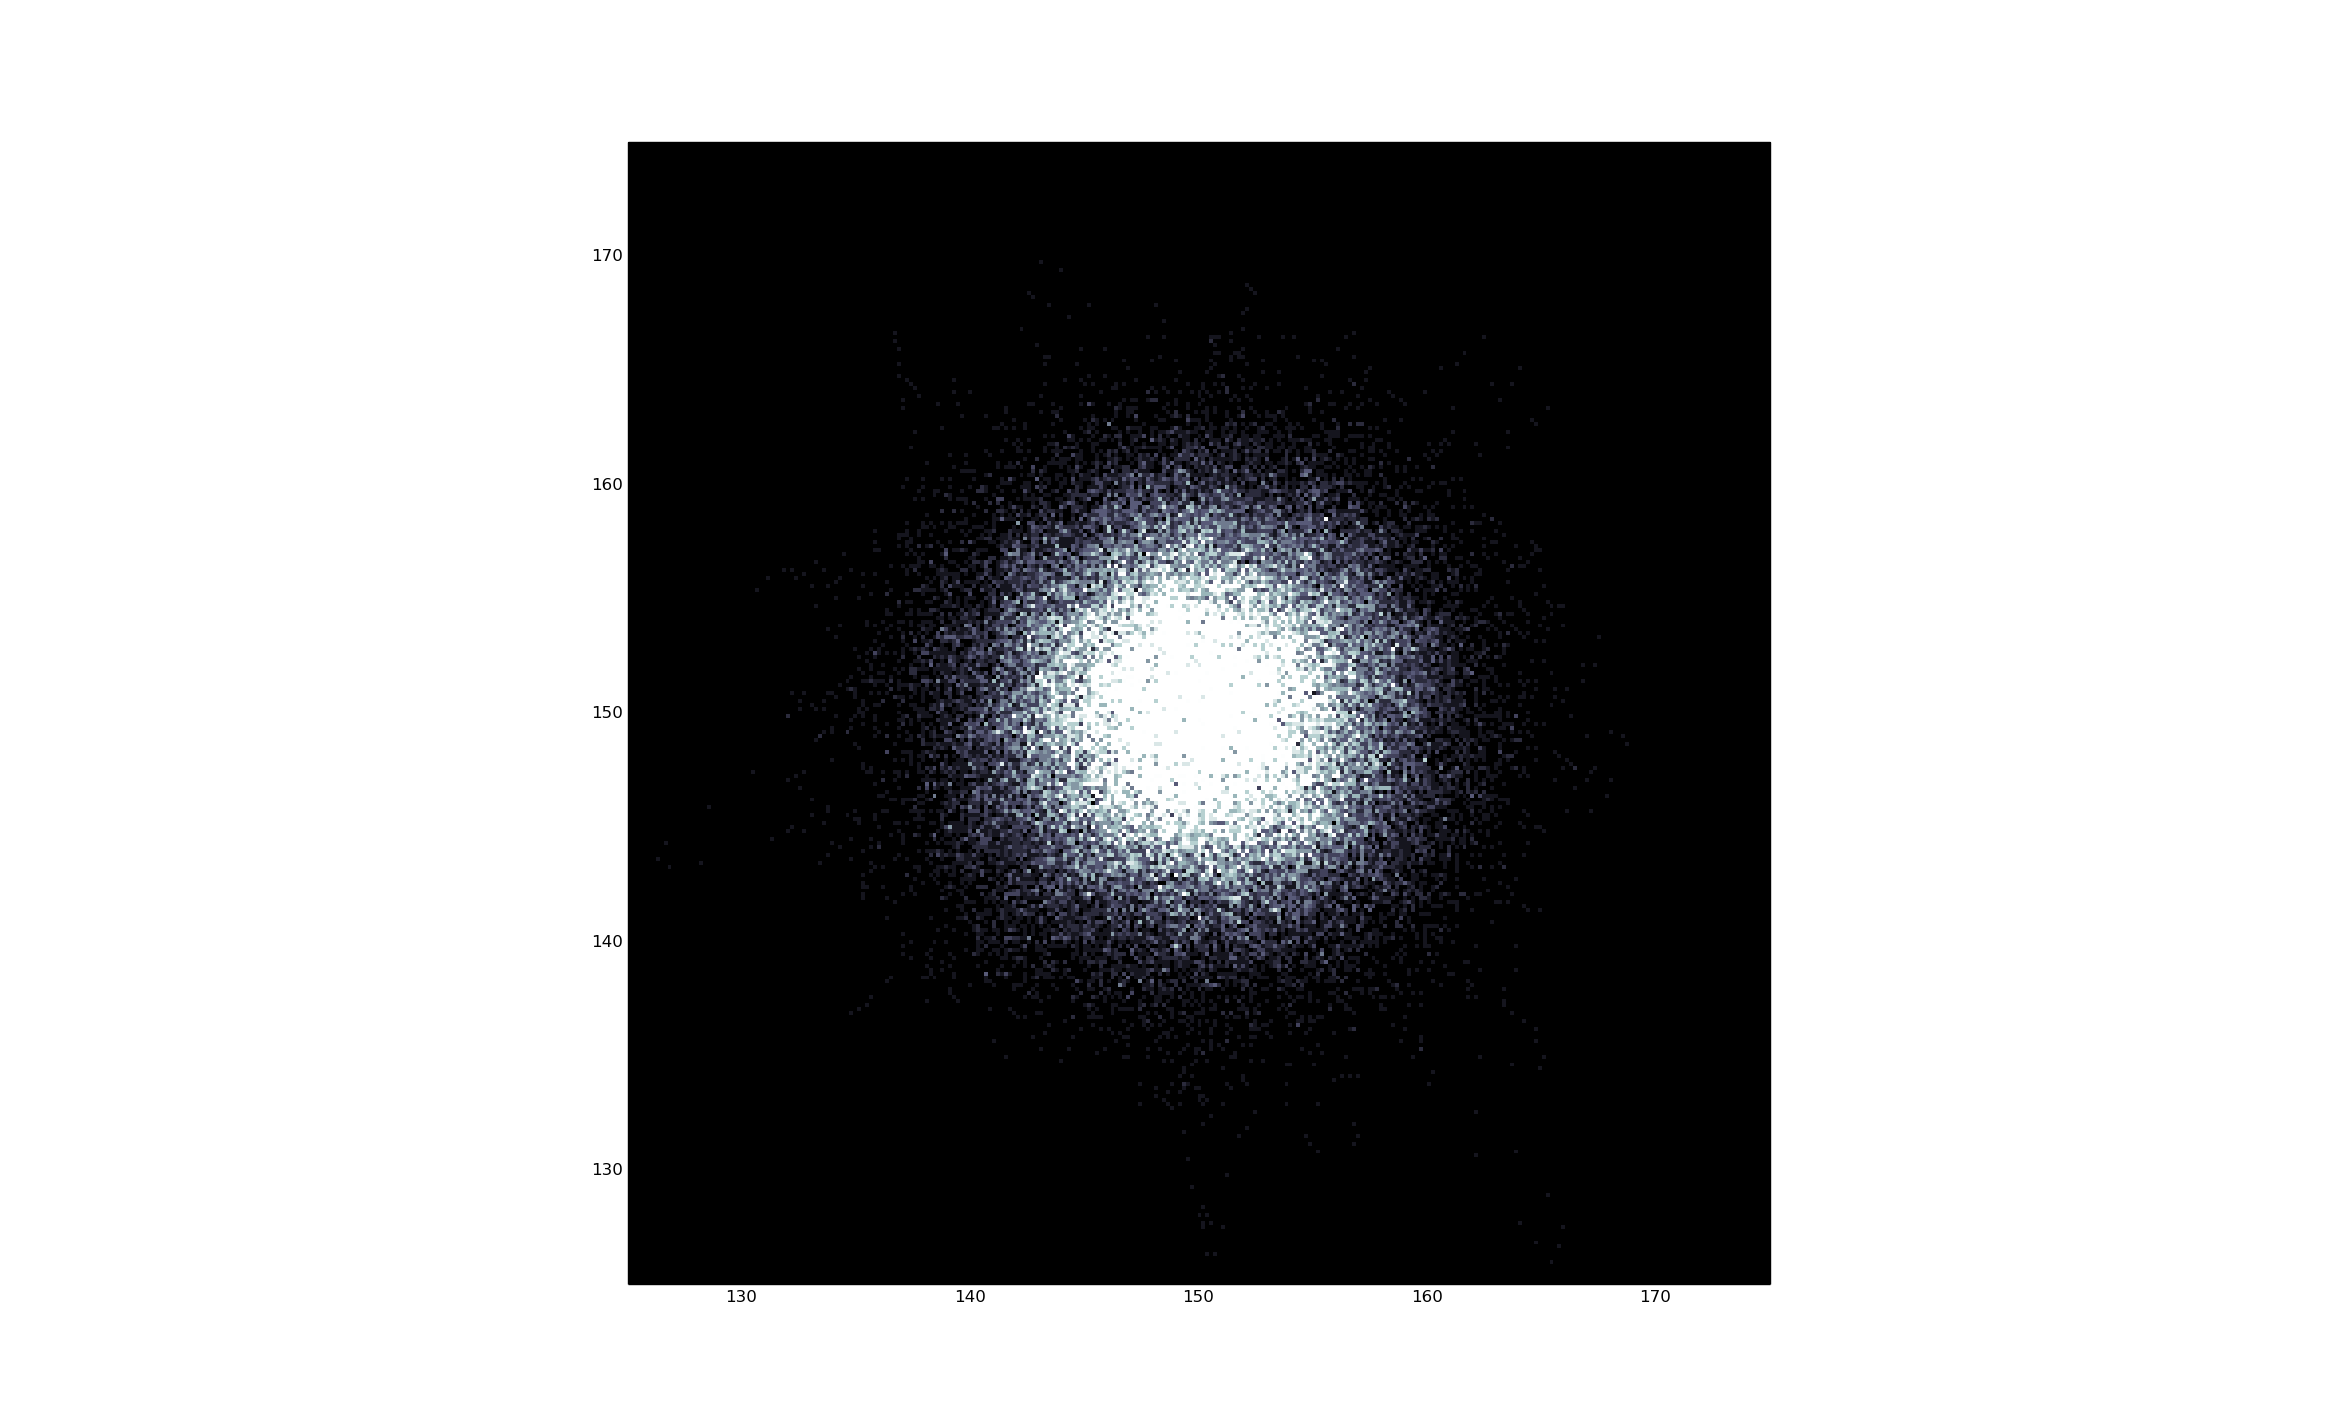
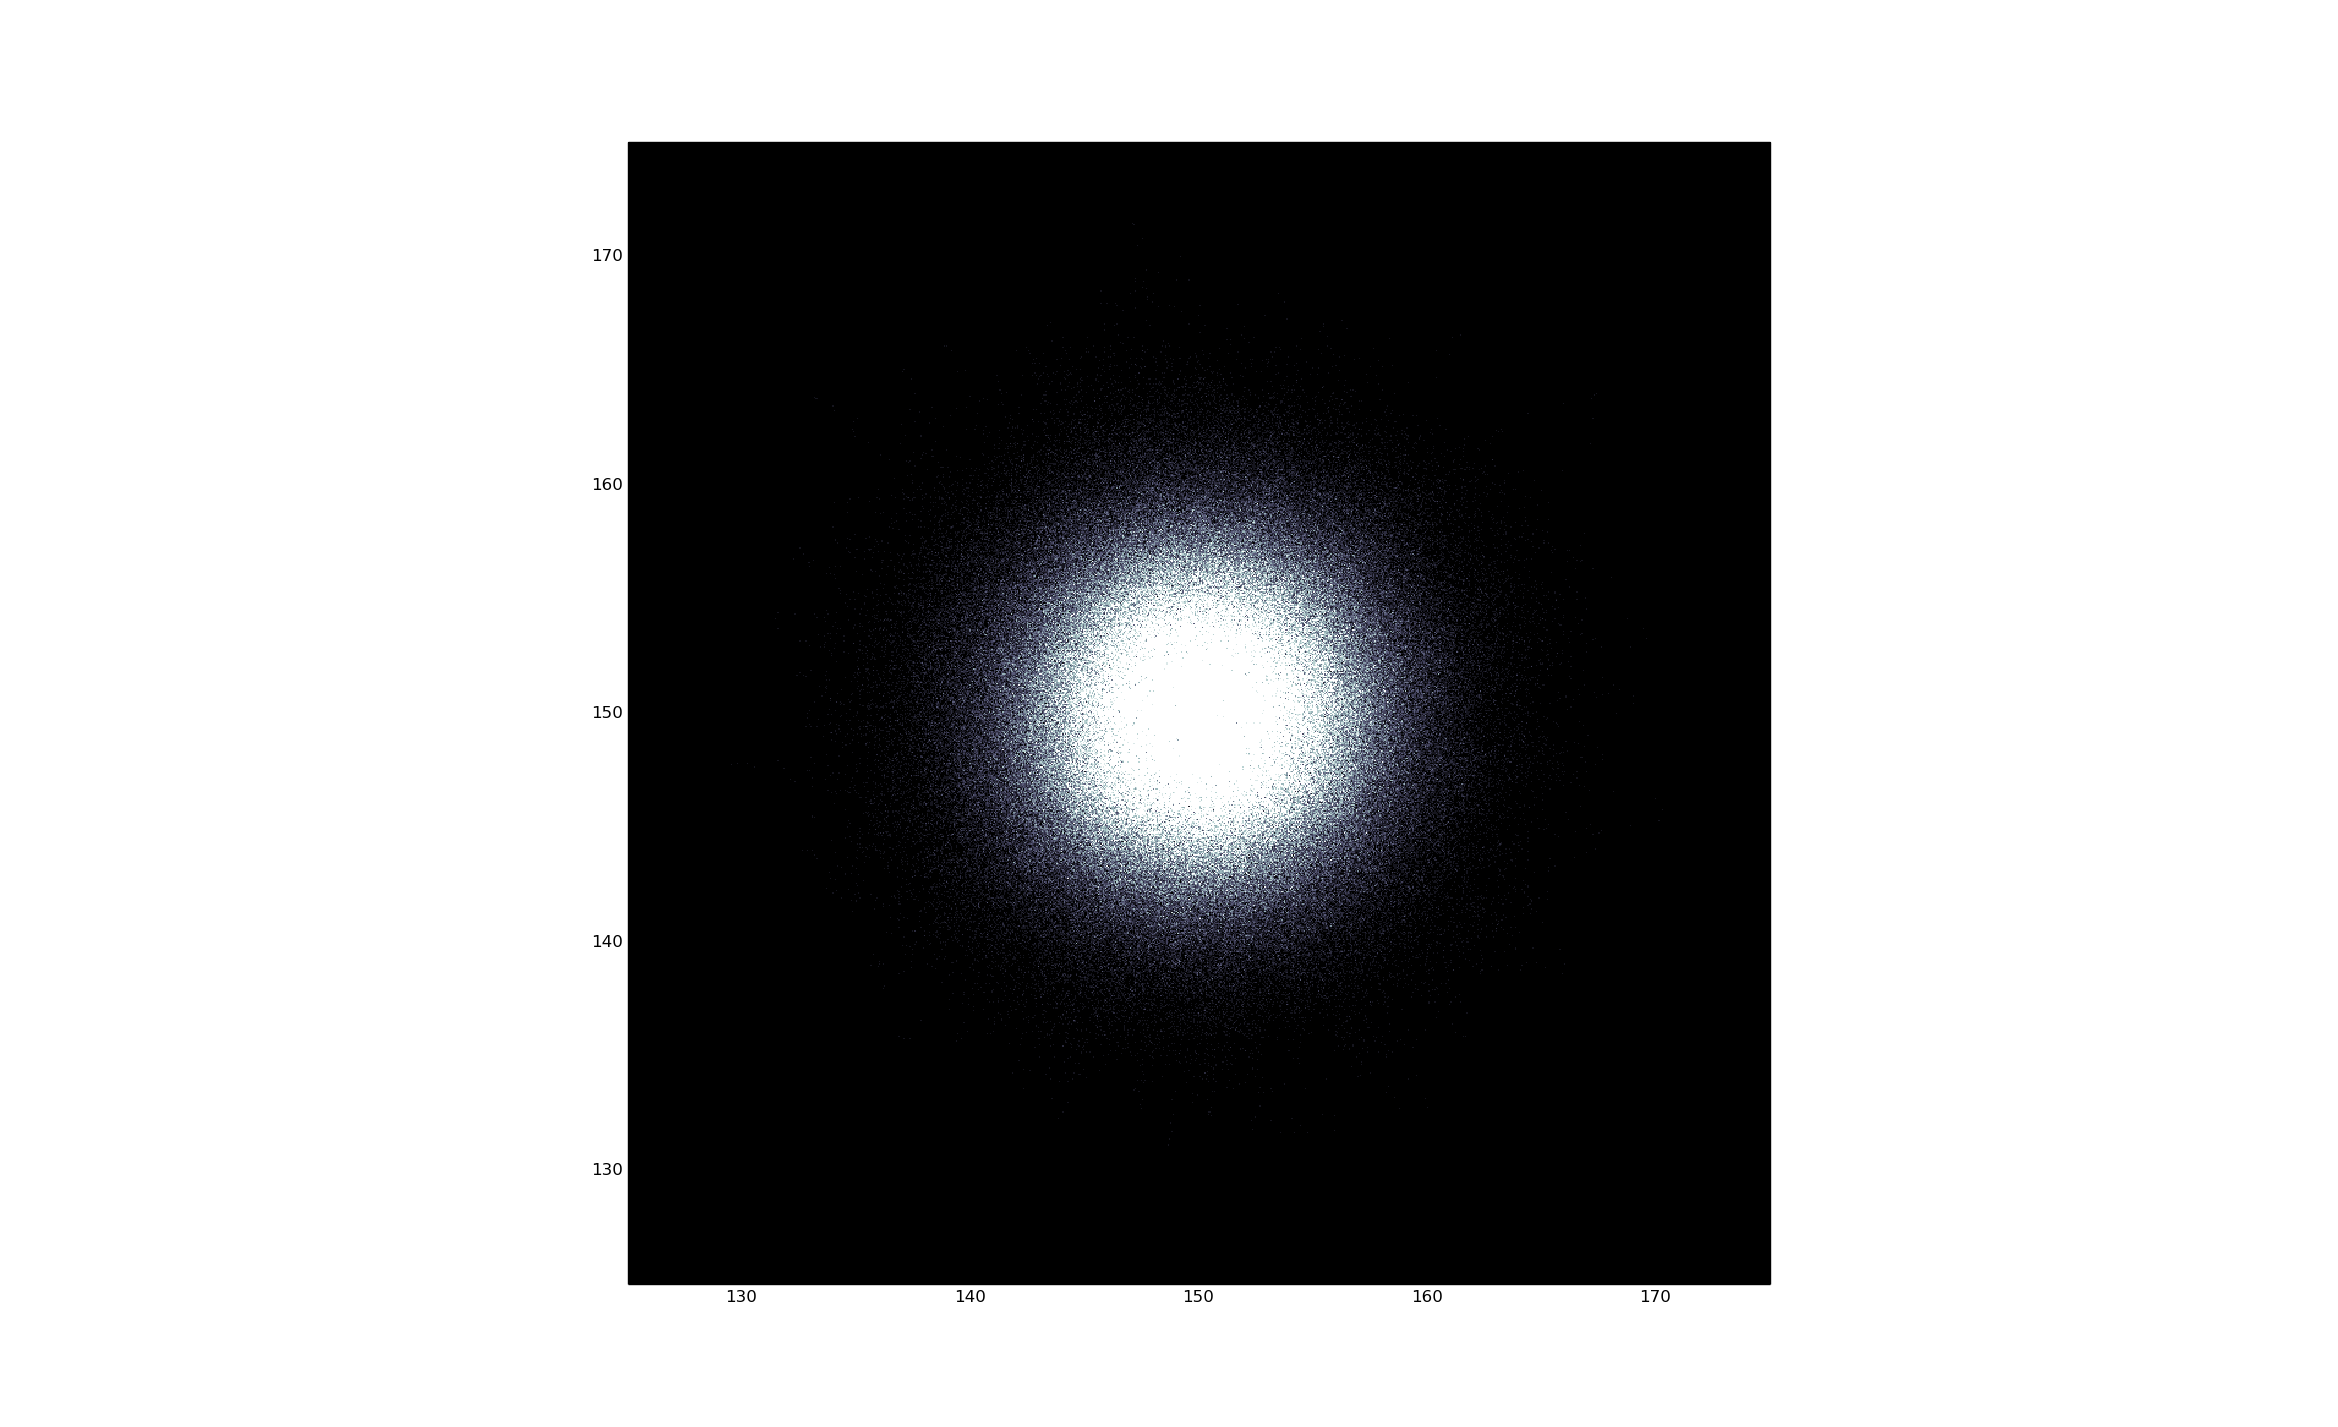
Membrane radius: 58

Changed region(s): [[0.3435, 0.2467, 0.6557, 0.7708]]

diff --git a/main.py b/main.py
@@ -160,7 +160,7 @@ if __name__ == '__main__':
     runner.set_a_ball_mass(a_ball_mass)
 
     # Membrane size
-    sheet_radius    = 52
+    sheet_radius    = 58
     runner.set_sheet_radius(sheet_radius)
 
     # Ball starting postion
